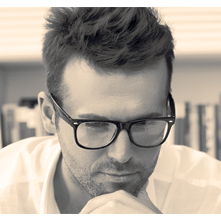
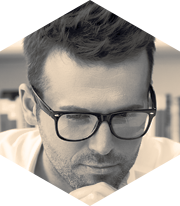
add

diff --git a/index.html b/index.html
@@ -46,60 +46,47 @@
 				<div class="my-pics-wrapper">
 					<div class="my-pics-row first-row">
 						<div class="hexagon hexagon-bg-pic1">
-							<div class="hexagon-top"></div>
-							<div class="hexagon-bottom"></div>
+							<img src="img/catalog/hex1.png" width="180" height="206" alt="">
 						</div>
 						<div class="hexagon hexagon-bg-pic2">
-							<div class="hexagon-top"></div>
-							<div class="hexagon-bottom"></div>
+							<img src="img/catalog/hex2.png" width="180" height="206" alt="">
 						</div>
 						<div class="hexagon hexagon-bg-pic3">
-							<div class="hexagon-top"></div>
-							<div class="hexagon-bottom"></div>
+							<img src="img/catalog/hex3.png" width="180" height="206" alt="">
 						</div>
 						<div class="hexagon hexagon-bg-pic4">
-							<div class="hexagon-top"></div>
-							<div class="hexagon-bottom"></div>
+							<img src="img/catalog/hex4.png" width="180" height="206" alt="">
 						</div>
 					</div>
 					<div class="my-pics-row second-row">
 						<div class="hexagon hexagon-bg-pic5">
-							<div class="hexagon-top"></div>
-							<div class="hexagon-bottom"></div>
+							<img src="img/catalog/hex5.png" width="180" height="206" alt="">
 						</div>
 						<div class="hexagon hexagon-bg-pic6">
-							<div class="hexagon-top"></div>
-							<div class="hexagon-bottom"></div>
+							<img src="img/catalog/hex6.png" width="180" height="206" alt="">
 						</div>
 						<div class="hexagon hexagon-bg-pic7">
-							<div class="hexagon-top"></div>
-							<div class="hexagon-bottom"></div>
+							<img src="img/catalog/hex7.png" width="180" height="206" alt="">
 						</div>
 						<div class="hexagon hexagon-bg-pic8">
-							<div class="hexagon-top"></div>
-							<div class="hexagon-bottom"></div>
+							<img src="img/catalog/hex8.png" width="180" height="206" alt="">
 						</div>
 						<div class="hexagon hexagon-bg-pic9">
-							<div class="hexagon-top"></div>
-							<div class="hexagon-bottom"></div>
+							<img src="img/catalog/hex9.png" width="180" height="206" alt="">
 						</div>
 					</div>
 					<div class="my-pics-row third-row">
 						<div class="hexagon hexagon-bg-pic10">
-							<div class="hexagon-top"></div>
-							<div class="hexagon-bottom"></div>
+							<img src="img/catalog/hex10.png" width="180" height="206" alt="">
 						</div>
 						<div class="hexagon hexagon-bg-pic11">
-							<div class="hexagon-top"></div>
-							<div class="hexagon-bottom"></div>
+							<img src="img/catalog/hex11.png" width="180" height="206" alt="">
 						</div>
 						<div class="hexagon hexagon-bg-pic12">
-							<div class="hexagon-top"></div>
-							<div class="hexagon-bottom"></div>
+							<img src="img/catalog/hex12.png" width="180" height="206" alt="">
 						</div>
 						<div class="hexagon hexagon-bg-pic13">
-							<div class="hexagon-top"></div>
-							<div class="hexagon-bottom"></div>
+							<img src="img/catalog/hex13.png" width="180" height="206" alt="">
 						</div>	
 					</div>
 				</div>
@@ -113,10 +100,7 @@
 			<div class="container">
 				<h2 class="visually-hidden">About Me</h2>
 			
-				<div class="hexagon hexagon-my-face my-photo">
-					<div class="hexagon-top"></div>
-					<div class="hexagon-bottom"></div>
-				</div>
+				<img class="my-photo" src="img/my-face.png" alt="my photo" width="180" height="206">
 				<div class="my-info">
 					<h3 class="my-name">Smith Anderson</h3>
 					<h4 class="my-job">Illustrator & Character Designer</h4>
@@ -195,41 +179,37 @@
 		<p class="copyright">© Copyright 2013 by PSDchat</p>
 	</footer>
 
+	<!-- стрелка наверх -->
+	<a class="back_to_top fa fa-long-arrow-up" aria-hidden="true" title="Наверх"></a>
+
 	<script>
 
-		var top = document.getElementsByTagName('body');		
-		var link = document.querySelector('.portfolio-link');
-		var about_me_link = document.querySelector('.about-me-link');
-		var git_link = document.querySelector('.git-link');
-		var catalog = document.querySelector('.pictures-catalog');
-		var about_me = document.querySelector('.about-me');
-		var git = document.querySelector('.get-in-touch');
+		var link = document.querySelector('.portfolio-link');         // a
+		var about_me_link = document.querySelector('.about-me-link'); // a
+		var git_link = document.querySelector('.git-link');           // a
+		var catalog = document.querySelector('.pictures-catalog');    // x
+		var about_me = document.querySelector('.about-me');			  // y
+		var git = document.querySelector('.get-in-touch');            // z
 
 		window.onbeforeunload = function () {
     		window.scrollTo(0,0);
 		};
 
+		function bla_bla(a,x,y,z) {
+			a.addEventListener("click", function() {
+				x.classList.add('fullscr');
+				y.classList.remove('fullscr');
+				z.classList.remove('fullscr');
+			});
+		};
+
+		bla_bla(link,catalog,about_me,git);
+		bla_bla(about_me_link,about_me,catalog,git);
+		bla_bla(git_link,git,catalog,about_me);
+
 		window.addEventListener('DOMContentLoaded', function() {
 			catalog.classList.add('fullscr');
 		});
-
-		link.addEventListener("click", function() {
-			catalog.classList.add('fullscr');
-			about_me.classList.remove('fullscr');
-			git.classList.remove('fullscr');
-		});
-
-		about_me_link.addEventListener('click', function() {
-			about_me.classList.add('fullscr');
-			catalog.classList.remove('fullscr');
-			git.classList.remove('fullscr');
-		})
-
-		git_link.addEventListener('click', function() {
-			git.classList.add('fullscr');
-			catalog.classList.remove('fullscr');
-			about_me.classList.remove('fullscr');
-		})
 
 		window.addEventListener("wheel", function() {
 			catalog.classList.remove('fullscr');
@@ -237,6 +217,35 @@
 			git.classList.remove('fullscr');
 		});
 
+
+		// ДЛЯ КНОПКИ НАВЕРХ
+		function trackScroll() {
+		    var scrolled = window.pageYOffset;
+		    var coords = document.documentElement.clientHeight;
+
+		    if (scrolled > coords) {
+		      goTopBtn.classList.add('back_to_top-show');
+		    }
+		    if (scrolled < coords) {
+		      goTopBtn.classList.remove('back_to_top-show');
+		    }
+		  }
+
+		function backToTop() {
+		    if (window.pageYOffset > 0) {
+		      window.scrollBy(0, -80);
+		      setTimeout(backToTop, 0);
+		    }
+		  }
+
+		var goTopBtn = document.querySelector('.back_to_top');
+
+		window.addEventListener('wheel', trackScroll);
+		goTopBtn.addEventListener('click', function() {
+			backToTop();
+			catalog.classList.add('fullscr');
+		});
+		
 	</script>
 </body>
 </html>

diff --git a/css/main.css b/css/main.css
@@ -31,6 +31,7 @@ a, button {
 	transition: .6s;
 }
 
+
 h2, h3, h4, .pre-form-text {
 	font-family: 'Maven Pro', sans-serif;
 	font-weight: normal;
@@ -55,6 +56,7 @@ ul {
 }
 
 .container {
+	position: relative;
 	width: 780px;
 	margin: 0 auto;
 	padding-right: 20px;
@@ -79,11 +81,10 @@ ul {
 	overflow: hidden;
 }
 
-
 @keyframes scaleCat {
-	0% 		{ padding: 120px 0 90px;
+	0% 		{ padding: 90px 0 90px;
 		  	  min-height: 600px; }
-	100% 	{ padding: 180px 0 90px; 
+	100% 	{ padding: 120px 0 90px; 
 			  min-height: 100vh;}
 }
 /***************************************************************************************/
@@ -168,10 +169,10 @@ ul {
 
 .my-pics-row {
 	display: flex;
+	height: 100%;
 }
 
 .my-pics-row > div {
-	flex-shrink: 0;
 	margin-right: 20px;
 }
 
@@ -194,7 +195,7 @@ ul {
 	margin-top: -52px;
 }
 
-.hexagon {
+/*.hexagon {
 	display: block;
   	position: relative;
   	width: 180px; 
@@ -310,14 +311,7 @@ ul {
 
 .hexagon-bg-pic13 {
 	background-image: url('../img/catalog/pic13.png');
-}
-
-.hexagon-my-face {
-	background-image: url('../img/my-face.png');
-}
-
-
-
+}*/
 
 .about-me,
 .get-in-touch {
@@ -470,9 +464,99 @@ ul {
 /***************************************************************************************/
 /***************************************************************************************/
 
+/* псевдо линии для секция */
+
+.get-in-touch .container::after,
+.get-in-touch .container::before {
+	content: '';
+	position: absolute;
+
+	margin: 0 auto;
+	left: 0;
+
+	background: #2b2b2b;
+
+	width: 100%;
+	height: 1px;
+}
+
+.get-in-touch .container::before {
+	top: -55px;
+}
+
+.get-in-touch .container::after {
+	bottom: -55px;
+}
+
+.about-me .container::before,
+.about-me .container:after {
+	content: '';
+	position: absolute;
+
+	margin: 0 auto;
+
+	background: #219d84;
+
+	width: 1px;
+	height: 100%;
+}
+
+.about-me .container::before {
+	left: 0;
+}
+
+.about-me .container::after {
+	right: 0;
+}
+
+.pictures-catalog .container:after {
+	content: '';
+	position: absolute;
+
+	margin: 0 auto;
+	left: 0;
+
+	background: #e4e9eb;
+
+	width: 100%;
+	height: 1px;
+}
+
+.pictures-catalog .container::after {
+	bottom: -100px;
+}
+
+/* ТУПА ДЛЯ СКРИПТОФ */
+.back_to_top {
+	position: fixed;
+    bottom: 60px;
+    right: 50px;
+    z-index: 9999;
+    width: 30px;
+	height: 25px;
+	padding-top: 5px;
+	background: #2eb398;
+	color: #fff;
+	cursor: pointer;
+	border-radius: 2px;
+	display: none;
+
+	text-align: center;
+	font-size: 100px;
+}
+
+.back_to_top:hover {
+ 	background: #454545;
+	color: #2eb398;
+}
+
+.back_to_top-show {
+  	display: block;
+}
+
 .fullscr {
 	min-height: 100vh;
-	padding: 180px 0 90px;
+	padding: 120px 0 90px;
 	
 	animation-name: scaleCat;
 	animation-duration: 1s;
